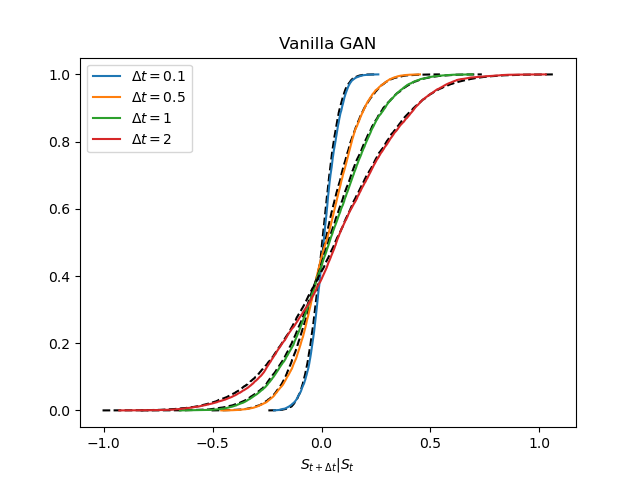
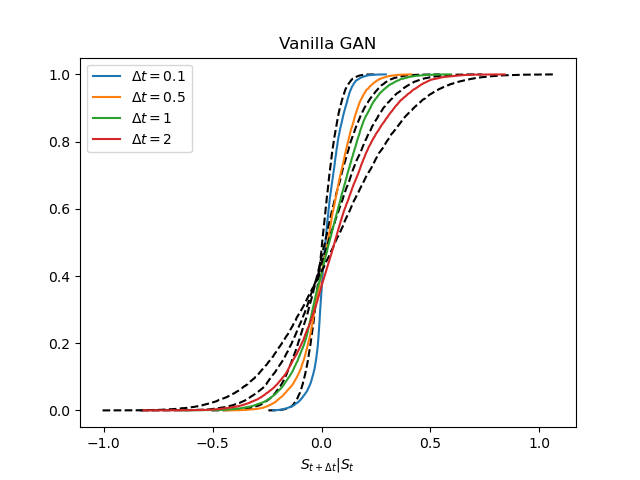
S_t in ECDF is not set to original S_0

Changed region(s): [[0.1875, 0.125, 0.8438, 0.875]]

diff --git a/plots.py b/plots.py
@@ -13,33 +13,7 @@ def losses(D_losses, G_losses, config_name):
     plt.savefig(f"Plots/Loss/Loss {config_name}.png")
     plt.show()
 
-def log_returns(actual_log_returns, model, n_steps, n_paths, batch_size, c_dt, config_name, my_device = 'mps'):
-    """
-    actual_log_returns -> tensor 
-    model -> torch model
-    n_steps -> int
-    n_paths -> int
-    """
-    pred_Log_Return = np.zeros((n_steps, n_paths))
-    for i in range(n_steps):
-        c_previous = actual_log_returns[i].view(1, -1)
-        x_random = torch.randn(batch_size, 1).type(torch.FloatTensor).to(device=torch.device(my_device)).view(1, -1)
-        x_fake = model.forward(x_random, (c_previous, c_dt)).view(1, -1)
-        pred_Log_Return[i] = x_fake.cpu().detach().numpy()
-
-    plt.figure()
-    plt.hist(actual_log_returns.cpu().detach().numpy().flatten(), bins = 50, alpha = 0.8, density=True, color = 'lightblue', label="Real")
-    plt.hist(pred_Log_Return.flatten(), bins = 50, alpha = 0.5, density = True, color = 'palevioletred', label="Generated")
-    plt.legend()
-    plt.title(f"Log Returns {config_name}")
-    plt.savefig(f"Plots/Log Returns/Log Returns {config_name}")
-    plt.show()
-
-    plt.scatter(x_random.cpu().detach().numpy(), x_fake.cpu().detach().numpy())
-    plt.show()
-
-def ECDF_plot(gen_model, config_name, process, SDE_params, use_Z,  my_device = 'mps'):
-    S_t = 0.1
+def ECDF_plot(gen_model, config_name, process, S_t, SDE_params, use_Z,  my_device = 'mps'):
     dts = [0.1, 0.5, 1, 2]
     points = 10_000
     first_step = torch.full((points, ), S_t).type(torch.FloatTensor).to(device=torch.device(my_device)).view(1, -1)
@@ -337,7 +311,30 @@ def discriminator_map():
     # # plt.ylabel("Generator output")
     # plt.show()
 
+def log_returns(actual_log_returns, model, n_steps, n_paths, batch_size, c_dt, config_name, my_device = 'mps'):
+    """
+    actual_log_returns -> tensor 
+    model -> torch model
+    n_steps -> int
+    n_paths -> int
+    """
+    pred_Log_Return = np.zeros((n_steps, n_paths))
+    for i in range(n_steps):
+        c_previous = actual_log_returns[i].view(1, -1)
+        x_random = torch.randn(batch_size, 1).type(torch.FloatTensor).to(device=torch.device(my_device)).view(1, -1)
+        x_fake = model.forward(x_random, (c_previous, c_dt)).view(1, -1)
+        pred_Log_Return[i] = x_fake.cpu().detach().numpy()
 
+    plt.figure()
+    plt.hist(actual_log_returns.cpu().detach().numpy().flatten(), bins = 50, alpha = 0.8, density=True, color = 'lightblue', label="Real")
+    plt.hist(pred_Log_Return.flatten(), bins = 50, alpha = 0.5, density = True, color = 'palevioletred', label="Generated")
+    plt.legend()
+    plt.title(f"Log Returns {config_name}")
+    plt.savefig(f"Plots/Log Returns/Log Returns {config_name}")
+    plt.show()
+
+    plt.scatter(x_random.cpu().detach().numpy(), x_fake.cpu().detach().numpy())
+    plt.show()
 
     
 

diff --git a/main.py b/main.py
@@ -9,7 +9,7 @@ def load_config(filepath, config_key):
     return configs[config_key]
 
 # Load the specific configuration
-config_key = 'config_1'
+config_key = 'config_2'
 config = load_config('parameters.yaml', config_key)
 
 # Access the variables
@@ -41,9 +41,10 @@ np.random.seed(42)
 gen_model = torch.load(f'Trained_Models/generator_{config_name}.pth')
 gen_model.eval()
 
-ECDF_plot(gen_model, config_name, process, SDE_params, use_Z)
+ECDF_plot(gen_model, config_name, process, S_0, SDE_params, use_Z)
 
-# ks_plot(config_name, process, S_0, SDE_params, use_Z)
+ks_plot(config_name, process, S_0, SDE_params, use_Z)
+
 # steps_weak_stong = np.arange(20, 101, 20)
 # paths_weak_strong = 500
 # weak_stong_error_gen_paths(config_name, process, S_0, SDE_params, steps_weak_stong, paths_weak_strong, dt, use_Z)
